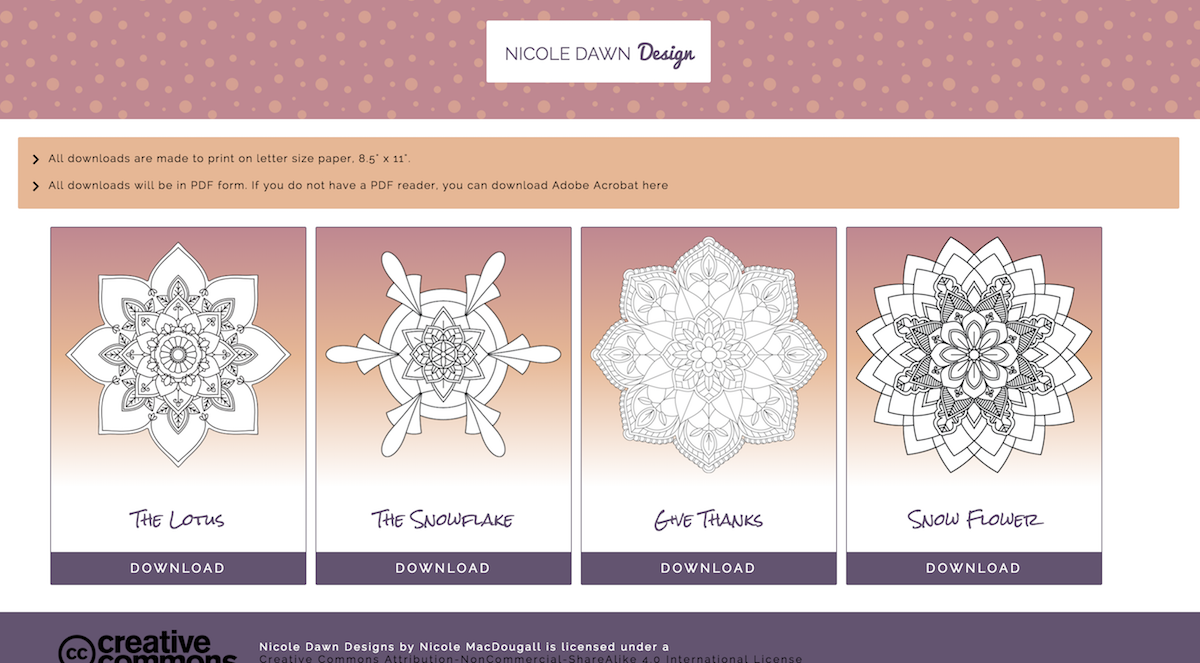
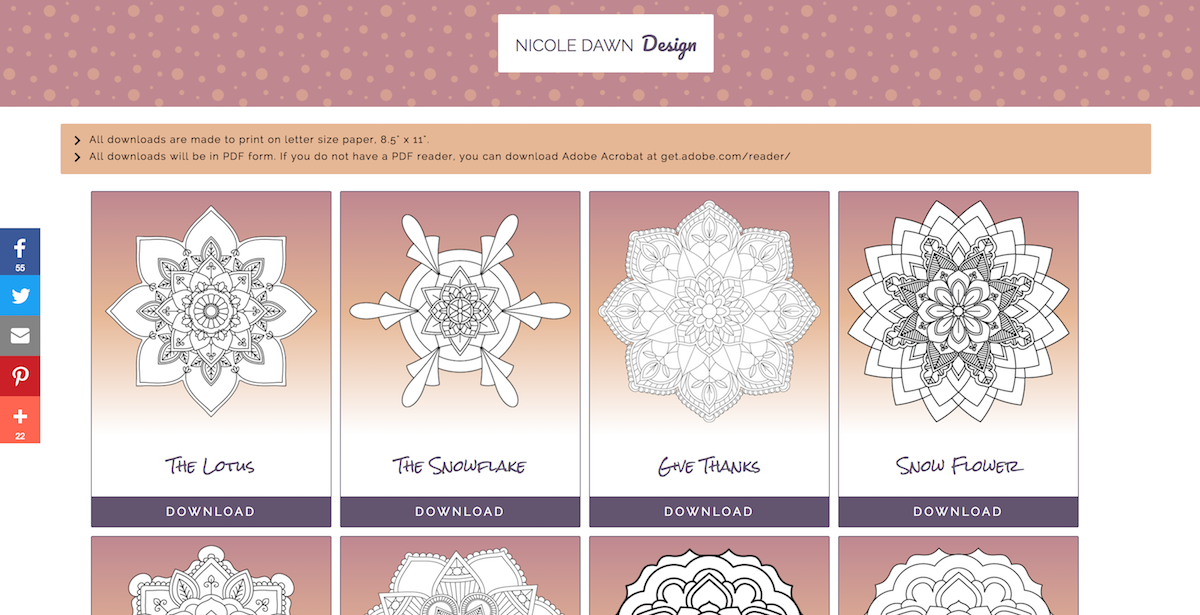
Updated mandalas and added FB analytics - now working

diff --git a/index.html b/index.html
@@ -2,8 +2,12 @@
 <html lang="en">
 <head>
   <meta charset="UTF-8">
-  <meta name="viewport" content="width=device-width, user-scalable=no, initial-scale=1.0, maximum-scale=1.0, minimum-scale=1.0">
   <title>Nicole Dawn Design</title>
+
+  <meta name="viewport" content="width=device-width, user-scalable=no, initial-scale=1.0, maximum-scale=1.0, minimum-scale=1.0">
+  <meta name="keywords" content="mandala, coloring, colouring, vector, illustrator, mandala creator, coloring pages, colouring pages, zentangle, black and white">
+  <meta name="description" content="Designing to inspire. I create beautiful mandalas with the Mandala Creator Adobe Illustrator plug-on.">
+
   <link href="https://fonts.googleapis.com/css?family=Raleway:400|Pacifico|Rock+Salt" rel="stylesheet">
   <link href="//cdn.rawgit.com/noelboss/featherlight/1.6.1/release/featherlight.min.css" type="text/css" rel="stylesheet" />
   <link rel="stylesheet" type="text/css" href="/css/custom.css?v3">
@@ -13,7 +17,7 @@
   <meta property="fb:app_id"             content="160929571041083" />
   <meta property="og:description"        content="Designing to inspire." />
   <meta property="og:image"              content="http://nicoledawn.design/images/screenshot.png">
-  <meta property="og:image:height"       content="663">
+  <meta property="og:image:height"       content="615">
   <meta property="og:image:width"        content="1200">
   <meta property="og:site_name"          content="Nicole Dawn Design" />
   <meta property="og:title"              content="Nicole Dawn Design" />
@@ -86,9 +90,7 @@
             </a>
           </div>
           <span class="grid-item__name">{{name}}</span>
-          <a class="grid-item__link" href="/images/files/{{filename}}.pdf" target="_blank" download>
-            <span class="download-text">download</span>
-          </a>
+          <a id="{{filename}}" class="grid-item__link" href="/images/files/{{filename}}.pdf" target="_blank" download>download</a>
         </div>
         {{/designs}}
       </div>
@@ -102,76 +104,30 @@
     <script src="https://npmcdn.com/imagesloaded@4.1/imagesloaded.pkgd.min.js"></script>
     <script src="https://unpkg.com/masonry-layout@4.1/dist/masonry.pkgd.min.js"></script>
 
-<script>
-  /* global Handlebars */
-  function masonryIt() {
-    const $grid = $('.grid').masonry();
-    //   Masonry
-    $grid.imagesLoaded(() => {
-      $grid.masonry({
-        // use outer width of grid-sizer for columnWidth
-        columnWidth: '.grid-sizer',
-        // do not use .grid-sizer in layout
-        itemSelector: '.grid-item',
-        percentPosition: true,
-        gutter: 10,
-      });
+    <script src="js/script.js"></script>
 
-      $grid.masonry();
+    <!-- Go to www.addthis.com/dashboard to customize your tools -->
+    <script type="text/javascript" src="//s7.addthis.com/js/300/addthis_widget.js#pubid=ra-582705c904c8ff45"></script>
 
-    });
-  }
-
-  function doSomething() {
-    if ($('#anchor').html().length > 0) {
-      masonryIt();
-    } else {
-      setTimeout(doSomething, 100);
-    }
-  }
-
-  function getContent() {
-  // https://gist.github.com/hugolpz/8075193
-  // 4a.function creation
-    const slingshot = (url, tplId, anchor) => {
-      $.getJSON(url, (data) => {
-        const template = $(tplId).html();
-        const stone = Handlebars.compile(template)(data);
-        $(anchor).append(stone);
+    <!-- FB Analytics -->
+    <script>
+     /* eslint-disable */
+     window.fbAsyncInit = function() {
+      FB.init({
+        appId      : '160929571041083',
+        xfbml      : true,
+        version    : 'v2.8'
       });
     };
-    // 4b.function firing
-    const dateObj = new Date();
-    const date = dateObj.getTime();
-    slingshot(`data.json?ts=${date}`, '#tpl', '#anchor');
-  }
 
-  $(document).ready(() => {
-    getContent();
-    setTimeout(doSomething, 10);
-  });
-</script>
-<!-- Go to www.addthis.com/dashboard to customize your tools -->
-<script type="text/javascript" src="//s7.addthis.com/js/300/addthis_widget.js#pubid=ra-582705c904c8ff45"></script>
-<!-- FB Analytics -->
-<script>
- /* eslint-disable */
-  window.fbAsyncInit = function() {
-    FB.init({
-      appId      : '160929571041083',
-      xfbml      : true,
-      version    : 'v2.8'
-    });
-  };
-
-  (function(d, s, id){
-    var js, fjs = d.getElementsByTagName(s)[0];
-    if (d.getElementById(id)) {return;}
-    js = d.createElement(s); js.id = id;
-    js.src = "//connect.facebook.net/en_US/sdk.js";
-    fjs.parentNode.insertBefore(js, fjs);
-  }(document, 'script', 'facebook-jssdk'));
-  /* eslint-enable */
-</script>
+    (function(d, s, id){
+      var js, fjs = d.getElementsByTagName(s)[0];
+      if (d.getElementById(id)) {return;}
+      js = d.createElement(s); js.id = id;
+      js.src = "//connect.facebook.net/en_US/sdk.js";
+      fjs.parentNode.insertBefore(js, fjs);
+    }(document, 'script', 'facebook-jssdk'));
+    /* eslint-enable */
+    </script>
 </body>
 </html>

diff --git a/js/script.js b/js/script.js
@@ -1,0 +1,62 @@
+/* global Handlebars */
+
+function getContent() {
+// https://gist.github.com/hugolpz/8075193
+// 4a.function creation
+  const slingshot = (url, tplId, anchor) => {
+    $.getJSON(url, (data) => {
+      const template = $(tplId).html();
+      const stone = Handlebars.compile(template)(data);
+      $(anchor).append(stone);
+    });
+  };
+  // 4b.function firing
+  const dateObj = new Date();
+  const date = dateObj.getTime();
+  slingshot(`data.json?ts=${date}`, '#tpl', '#anchor');
+}
+
+function logDownload(id) {
+  // Add this to a button's onclick handler
+  FB.AppEvents.logEvent("userDownloaded-" + id);
+}
+
+function masonryIt() {
+  const $grid = $('.grid').masonry();
+  //   Masonry
+  $grid.imagesLoaded(() => {
+    $grid.masonry({
+      // use outer width of grid-sizer for columnWidth
+      columnWidth: '.grid-sizer',
+      // do not use .grid-sizer in layout
+      itemSelector: '.grid-item',
+      percentPosition: true,
+      gutter: 10,
+    });
+
+    // jQuery, has event argument
+    $grid.on('layoutComplete', (event, items) => {
+      const download = document.getElementsByClassName('grid-item__link');
+      // console.log(download);
+      for (let i = 0; i < download.length; i++) {
+        download[i].addEventListener('click', (e) => {
+          e.stopPropagation();
+          logDownload(e.target.id);
+        });
+      }
+    });
+  });
+}
+
+function doSomething() {
+  if ($('#anchor').html().length > 0) {
+    masonryIt();
+  } else {
+    setTimeout(doSomething, 100);
+  }
+}
+
+$(document).ready(() => {
+  getContent();
+  setTimeout(doSomething, 10);
+});
